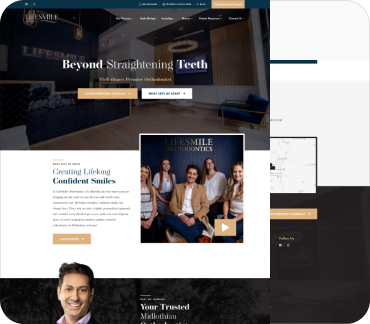
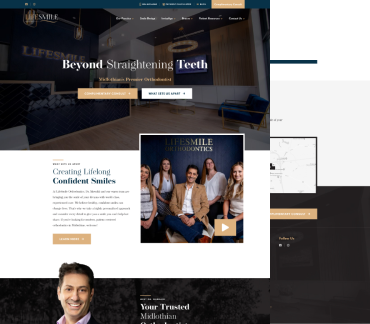
Featured work design update

diff --git a/index.html b/index.html
@@ -4,7 +4,7 @@
 <head>
     <meta charset="utf-8">
     <meta name="viewport" content="width=device-width, initial-scale=1">
-    <title>Bootstrap demo</title>
+    <title>Portfolio</title>
     <link rel="stylesheet" href="https://cdn.jsdelivr.net/npm/bootstrap@5.3.0-alpha1/dist/css/bootstrap.min.css" />
     <link href="https://unpkg.com/aos@2.3.1/dist/aos.css" rel="stylesheet">
     <link rel="stylesheet" href="./style.css">
@@ -17,12 +17,14 @@
                 <div class="col-12 col-md-4"></div>
                 <div class="col-12 col-md-8 d-flex justify-content-between topbarContent">
                     <div class="phoneNumber">
-                        <p class="m-0" data-aos="fade-right" data-aos-duration="2000" data-aos-anchor-placement="top-bottom">
+                        <p class="m-0" data-aos="fade-right" data-aos-duration="2000"
+                            data-aos-anchor-placement="top-bottom">
                             <img src="./icons/phone.svg" alt="Mobile phone">
                             <span><a href="tel:+8801711092208">+880 171 109 22 08</a></span>
                         </p>
                     </div>
-                    <div class="profesinalLink" data-aos="fade-left" data-aos-duration="2000" data-aos-anchor-placement="top-bottom">
+                    <div class="profesinalLink" data-aos="fade-left" data-aos-duration="2000"
+                        data-aos-anchor-placement="top-bottom">
                         <a href="/"><img src="./icons/medium.svg" alt="Medium"></a>
                         <a href="/"><img src="./icons/dribble.svg" alt="Dribble"></a>
                         <a href="/"><img src="./icons/behance.svg" alt="Beahnce"></a>
@@ -49,8 +51,13 @@
                     <img src="./imgs/fatematuzsultana.png" alt="Fatema Tuz Sultana" class="profileImg" />
                 </div>
                 <div class="col-12 col-md-8 bannerContent">
-                    <h2 data-aos="fade-up" data-aos-duration="2000" data-aos-anchor-placement="top-bottom">Hello I’m <strong>Fatema</strong> 👋</h2>
-                    <p class="m-0" data-aos="fade-up" data-aos-duration="2000" data-aos-anchor-placement="top-bottom">With 6 years of experience, I am a <em>growth-focused</em> 🏆 product designer with a knack for <em>user-centered</em> 📐 and <em>sales-driven</em> 📈 products.</p>
+                    <h2 data-aos="fade-up" data-aos-duration="2000" data-aos-anchor-placement="top-bottom">Hello I’m
+                        <strong>Fatema</strong> 👋
+                    </h2>
+                    <p class="m-0" data-aos="fade-up" data-aos-duration="2000" data-aos-anchor-placement="top-bottom">
+                        With 6 years of experience, I am a <em>growth-focused</em> 🏆 product designer with a knack for
+                        <em>user-centered</em> 📐 and <em>sales-driven</em> 📈 products.
+                    </p>
                 </div>
             </div>
         </div>
@@ -61,8 +68,10 @@
                 <div class="col-12 col-md-4"></div>
                 <div class="col-12 col-md-8 d-flex justify-content-between heroContent">
                     <p data-aos="fade-up" data-aos-duration="1000" data-aos-anchor-placement="top-bottom"><em>Available for new project</em></p>
-                    <p data-aos="fade-up" data-aos-duration="1500" data-aos-anchor-placement="top-bottom">fatusu.tama@gmail.com</p>
-                    <p data-aos="fade-up" data-aos-duration="2000" data-aos-anchor-placement="top-bottom"><a href="/" target="_blank">View Resume 📋</a></p>
+                    <p data-aos="fade-up" data-aos-duration="1500" data-aos-anchor-placement="top-bottom">
+                        fatusu.tama@gmail.com</p>
+                    <p data-aos="fade-up" data-aos-duration="2000" data-aos-anchor-placement="top-bottom"><a href="/"
+                            target="_blank">View Resume 📋</a></p>
                 </div>
             </div>
         </div>
@@ -70,66 +79,92 @@
     <div class="workSection">
 
         <div class="workHeader ">
-            <div class="container d-flex align-items-center" class="m-0" data-aos="fade-up" data-aos-duration="2000" data-aos-anchor-placement="top-bottom">
-                <img src="./icons//plus.svg" alt="">
-                <h4 >Featured Works</h4>
+            <div class="container d-flex align-items-center justify-content-between" class="m-0" data-aos="fade-up" data-aos-duration="2000"
+                data-aos-anchor-placement="top-bottom">
+                <div class="headingTitle d-flex align-items-center">
+                    <img src="./icons//plus.svg" alt="">
+                    <h4>Featured Works</h4>
+                </div>
+                <div class="projectLink">
+                    <a href="/">View All</a>
+                </div>
             </div>
         </div>
         <div class="container workContainer">
             <div class="workDetails">
                 <div class="row g-3">
-                    <div class="col-12 col-md-10">
-                        <h3 data-aos="fade-up" data-aos-duration="1500" data-aos-anchor-placement="top-bottom">Orthodontics
+                    <div class="col-12 col-md-10 position-relative">
+                        <div class="rightBorder"></div>
+                        <h3 data-aos="fade-up" data-aos-duration="1500" data-aos-anchor-placement="top-bottom">
+                            Orthodontics
                             <span>(Apr 2021 - Oct 2022)</span>
                         </h3>
-                        <p class="m-0" data-aos="fade-up" data-aos-duration="1500" data-aos-anchor-placement="top-bottom">Our proven systems and proprietary PARF™ framework (marketing, software, and
-                            training) power the country’s fastest-growing orthodontic practices. We’ll help you book more consults every
-                            month, reduce your no-show rate, build a 5-star reputation, and grow your practice faster
-                            than you thought possible — from online traffic to unlimited growth.</p>
+                        <p class="m-0" data-aos="fade-up" data-aos-duration="1500"
+                            data-aos-anchor-placement="top-bottom">Our proven systems and proprietary PARF™ framework (marketing, software, and training) power the country’s fastest-growing orthodontic practices. We’ll help you book
+                            more consults every month, reduce your no-show rate, build a 5-star reputation, and grow your practice faster than you thought possible — from online traffic to unlimited growth.</p>
                     </div>
-                    <div class="col-12 col-md-2" data-aos="fade-up" data-aos-duration="1500" data-aos-anchor-placement="top-bottom">
+                    <div class="col-12 col-md-2" data-aos="fade-up" data-aos-duration="1500"
+                        data-aos-anchor-placement="top-bottom">
                         <h4>Type</h4>
                         <p class="m-0">Web Design</p>
                     </div>
                 </div>
             </div>
             <div class="work">
-                <div class="row g-4">
+                <div class="row g-5">
                     <div class="col-6 col-md-4">
-                        <img src="./imgs/fearture1.png" alt="" data-aos="zoom-in" data-aos-duration="1500" data-aos="zoom-in" data-aos-duration="1500" >
+                        <div class="imgContaner" data-aos="zoom-in" data-aos-duration="1500">
+                            <img src="./imgs/fearture1.png" alt=""  />
+                            <a href="/">Live Preview</a>
+                        </div>
                     </div>
                     <div class="col-6 col-md-4">
-                        <img src="./imgs/fearture2.png" alt="" data-aos="zoom-in" data-aos-duration="1500">
+                        <div class="imgContaner" data-aos="zoom-in" data-aos-duration="1500">
+                            <img src="./imgs/fearture2.png" alt="" />
+                            <a href="/">Live Preview</a>
+                        </div>
                     </div>
                     <div class="col-6 col-md-4">
-                        <img src="./imgs/fearture3.png" alt="" data-aos="zoom-in" data-aos-duration="1500">
+                        <div class="imgContaner" data-aos="zoom-in" data-aos-duration="1500">
+                            <img src="./imgs/fearture3.png" alt="" />
+                            <a href="/">Live Preview</a>
+                        </div>
                     </div>
                     <div class="col-6 col-md-4">
-                        <img src="./imgs/fearture4.png" alt="" data-aos="zoom-in" data-aos-duration="1500">
+                        <div class="imgContaner" data-aos="zoom-in" data-aos-duration="1500">
+                            <img src="./imgs/fearture4.png" alt="" />
+                            <a href="/">Live Preview</a>
+                        </div>
+                    </div>
+                    <div class="col-6 col-md-4" >
+                        <div class="imgContaner" data-aos="zoom-in" data-aos-duration="1500">
+                            <img src="./imgs/fearture5.png" alt="" />
+                            <a href="/">Live Preview</a>
+                        </div>
                     </div>
                     <div class="col-6 col-md-4">
-                        <img src="./imgs/fearture5.png" alt="" data-aos="zoom-in" data-aos-duration="1500">
+                        <div class="imgContaner" data-aos="zoom-in" data-aos-duration="1500">
+                            <img src="./imgs/fearture6.png" alt="" />
+                            <a href="/">Live Preview</a>
+                        </div>
                     </div>
                     <div class="col-6 col-md-4">
-                        <img src="./imgs/fearture6.png" alt="" data-aos="zoom-in" data-aos-duration="1500">
+                        <div class="imgContaner" data-aos="zoom-in" data-aos-duration="1500">
+                            <img src="./imgs/fearture7.png" alt="" />
+                            <a href="/">Live Preview</a>
+                        </div>
                     </div>
                     <div class="col-6 col-md-4">
-                        <img src="./imgs/fearture7.png" alt="" data-aos="zoom-in" data-aos-duration="1500">
+                        <div class="imgContaner" data-aos="zoom-in" data-aos-duration="1500">
+                            <img src="./imgs/fearture8.png" alt="" />
+                            <a href="/">Live Preview</a>
+                        </div>
                     </div>
                     <div class="col-6 col-md-4">
-                        <img src="./imgs/fearture8.png" alt="" data-aos="zoom-in" data-aos-duration="1500">
-                    </div>
-                    <div class="col-6 col-md-4">
-                        <img src="./imgs/fearture9.png" alt="" data-aos="zoom-in" data-aos-duration="1500">
-                    </div>
-                    <div class="col-6 col-md-4">
-                        <img src="./imgs/fearture10.png" alt="" data-aos="zoom-in" data-aos-duration="1500">
-                    </div>
-                    <div class="col-6 col-md-4">
-                        <img src="./imgs/fearture11.png" alt="" data-aos="zoom-in" data-aos-duration="1500">
-                    </div>
-                    <div class="col-6 col-md-4">
-                        <img src="./imgs/fearture12.png" alt="" data-aos="zoom-in" data-aos-duration="1500">
+                        <div class="imgContaner" data-aos="zoom-in" data-aos-duration="1500">
+                            <img src="./imgs/fearture9.png" alt="" />
+                            <a href="/">Live Preview</a>
+                        </div>
                     </div>
                 </div>
             </div>
@@ -138,7 +173,8 @@
     <div class="workSection">
 
         <div class="workHeader ">
-            <div class="container d-flex align-items-center" data-aos="fade-up" data-aos-duration="1500" data-aos-anchor-placement="top-bottom">
+            <div class="container d-flex align-items-center" data-aos="fade-up" data-aos-duration="1500"
+                data-aos-anchor-placement="top-bottom">
                 <img src="./icons//plus.svg" alt="" data-aos="zoom-in" data-aos-duration="1500">
                 <h4 class="m-0">Web Application</h4>
             </div>
@@ -146,17 +182,21 @@
         <div class="container workContainer">
             <div class="workDetails">
                 <div class="row">
-                    <div class="col-12 col-md-10" data-aos="fade-up" data-aos-duration="1500" data-aos-anchor-placement="top-bottom">
+                    <div class="col-12 col-md-10" data-aos="fade-up" data-aos-duration="1500"
+                        data-aos-anchor-placement="top-bottom">
                         <h3>Orthodontics
                             <span>(Apr 2021 - Oct 2022)</span>
                         </h3>
-                        <p class="m-0" data-aos="fade-up" data-aos-duration="1500" data-aos-anchor-placement="top-bottom">Our proven systems and proprietary PARF™ framework (marketing, software, and
+                        <p class="m-0" data-aos="fade-up" data-aos-duration="1500"
+                            data-aos-anchor-placement="top-bottom">Our proven systems and proprietary PARF™ framework
+                            (marketing, software, and
                             training) power the country’s fastest-growing orthodontic practices. We’ll help you book
                             more consults every month, reduce your no-show rate, build a 5-star reputation, and grow
                             your practice faster than you thought possible — from online traffic to unlimited growth.
                         </p>
                     </div>
-                    <div class="col-12 col-md-2" data-aos="fade-up" data-aos-duration="1500" data-aos-anchor-placement="top-bottom">
+                    <div class="col-12 col-md-2" data-aos="fade-up" data-aos-duration="1500"
+                        data-aos-anchor-placement="top-bottom">
                         <h4>Type</h4>
                         <p class="m-0">Web Design</p>
                     </div>

diff --git a/style.css b/style.css
@@ -15,6 +15,7 @@
     --standard-green: #005247;
     --white-dim: rgba(255, 255, 255, 0.80);
     --white-color: #fff;
+    --link-blue: #087096;
     --primary-transparent: #25262710;
     --italic-font:'Libre Baskerville', serif;
 }
@@ -159,9 +160,30 @@ body em {
     padding-left:10px;
     text-transform: capitalize;
     color: var(--primary-color);
+    margin: 0;
+}
+.workSection .workHeader a {
+    display:inline-block;
+    font-size: 14px;
+    line-height: 16px;
+    font-weight: 600;
+    color: var(--primary-color);
+    text-decoration: none;
+    transition: .15s linear;
+}
+.workSection .workHeader a:hover {
+    transform: scale(1.1);
 }
 .workSection .workContainer {
     padding: 60px 0;
+}
+.workSection .workContainer .workDetails .rightBorder{
+    position: absolute;
+    background-color: rgba(37, 38, 39, 0.12);
+    width: 1px;
+    height: 84px;
+    right: 25px;
+    top: 30px;
 }
 .workSection .workContainer .workDetails h3{
     color: var(--primary-color);
@@ -190,13 +212,34 @@ body em {
     margin-bottom: 4px;
     padding-top: 50px;
 }
+
 .workSection .workContainer .work {
     padding-top: 60px;
 }
-.workSection .workContainer .work img{
+.workSection .workContainer .work .imgContaner {
     width: 100%;
-    height: auto;
-    object-fit: contain;
+    height: 375px;
+    border-radius: 24px;
+    border: 1px solid rgba(37, 38, 39, 0.12);
+}
+.workSection .workContainer .work .imgContaner img{
+    width: 100%;
+    height: 324px;
+    object-fit: cover;
+    border-radius: 24px 24px 0 0;
+}
+.workSection .workContainer .work .imgContaner a {
+    display: inline-block;
+    padding: 16px 30px;
+    font-size: 14px;
+    line-height: 16px;
+    font-weight: 600;
+    color: var(--link-blue);
+    text-decoration: none;
+    transition: .15s linear;
+}
+.workSection .workContainer .work .imgContaner a:hover {
+    transform: scale(1.1)
 }
 
 @media only screen and (max-width: 767px) {
